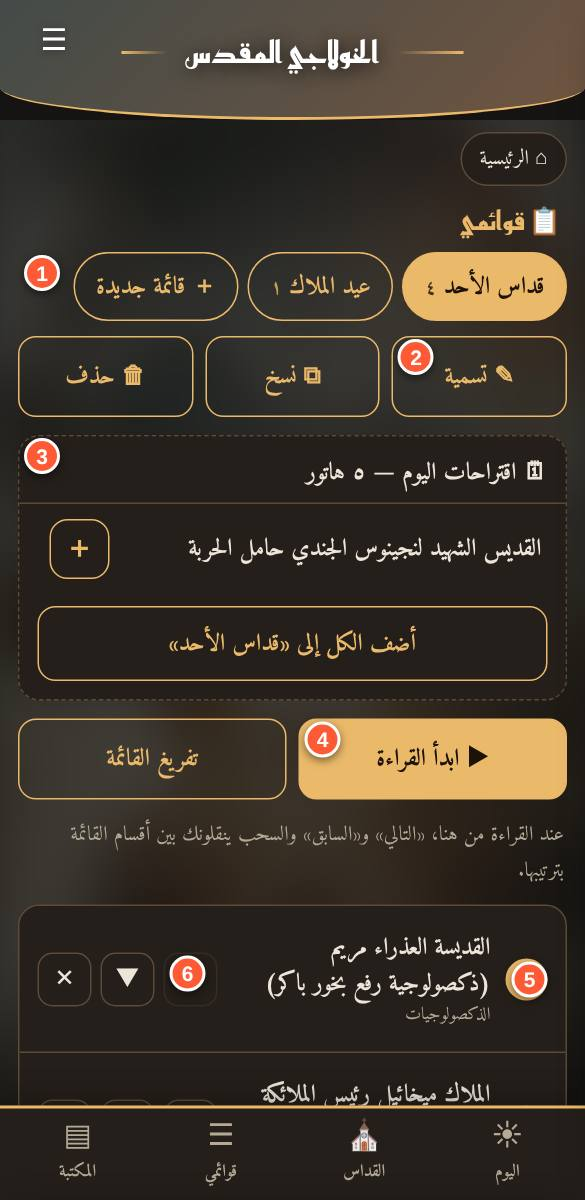
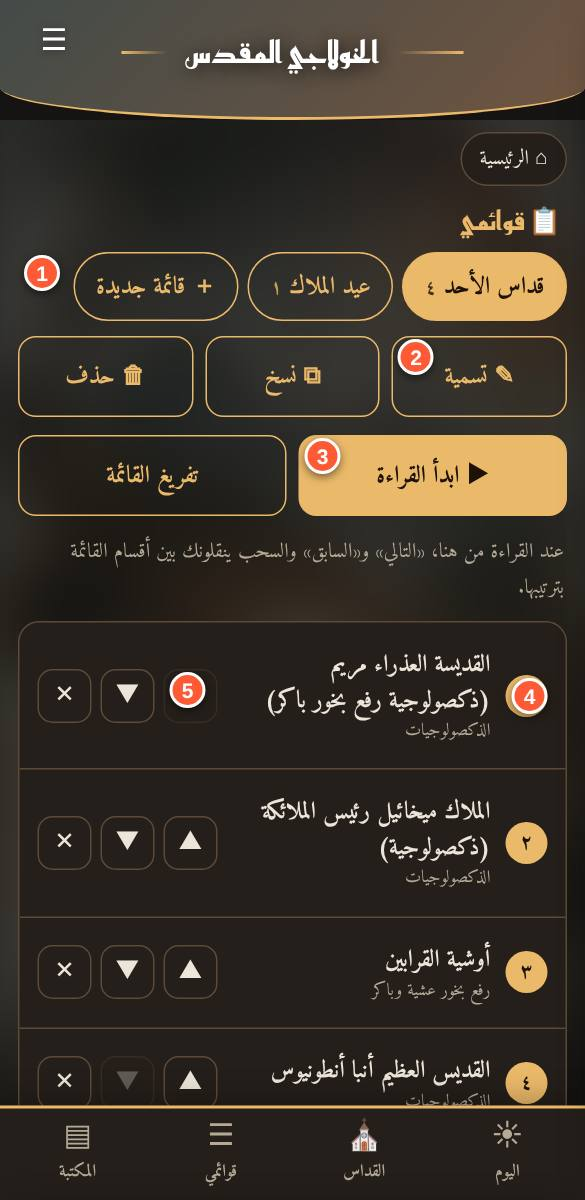
قسم جديد «ألحان التوزيع» (مديح الميلاد) مربوط بالتقويم القبطي + تحديث لقطات الدليل (r153)
Claude-Session: https://claude.ai/code/session_01TxsQH8W41ZBNhnMhe9bVaK

diff --git a/sw.js b/sw.js
@@ -1,5 +1,5 @@
-const CACHE_NAME='khulagi-v1.5-shell-r152';
-const FILES=['./','index.html','icon-192.png','icon-512.png','guide-news.js','calendar.js','guide-pages.js','guide/doxologies.jpg','guide/library.jpg','guide/lists.jpg','guide/lit.jpg','guide/notes.jpg','guide/post.jpg','guide/pre.jpg','guide/reader.jpg','guide/settings.jpg','guide/sidx.jpg','guide/splash.jpg','guide/story.jpg','guide/today.jpg','reemkufi-arabic-700-normal.woff2','dawn.jpg','data.js','study.js','swipe.js','live.js','story.js','study-data.js','data-bible.js','content-raf.txt','content-bas.txt','content-greg.txt','content-cyr.txt','content-qisam.txt','content-misc.txt','content-bless.txt','content-app.txt','content-taqs.txt','content-dox.txt','manifest.webmanifest','amiri-arabic-400-normal.woff2','amiri-arabic-700-normal.woff2','amiri-latin-400-normal.woff2','tajawal-arabic-400.woff2','tajawal-latin-400.woff2','tajawal-arabic-700.woff2','tajawal-latin-700.woff2','cairo-arabic-400-normal.woff2','cairo-arabic-700-normal.woff2','el-messiri-arabic-400-normal.woff2','el-messiri-arabic-700-normal.woff2','lateef-arabic-400-normal.woff2','lateef-arabic-700-normal.woff2','markazi-text-arabic-400-normal.woff2','markazi-text-arabic-700-normal.woff2','noto-naskh-arabic-arabic-400-normal.woff2','noto-naskh-arabic-arabic-700-normal.woff2','reem-kufi-arabic-400-normal.woff2','reem-kufi-arabic-700-normal.woff2','scheherazade-new-arabic-400-normal.woff2','scheherazade-new-arabic-700-normal.woff2','amiri-latin-700-normal.woff2','noto-sans-coptic-coptic-400-normal.woff2','noto-sans-coptic-latin-400-normal.woff2'];
+const CACHE_NAME='khulagi-v1.5-shell-r153';
+const FILES=['./','index.html','icon-192.png','icon-512.png','guide-news.js','calendar.js','content-tawzi.txt','guide-pages.js','guide/doxologies.jpg','guide/library.jpg','guide/lists.jpg','guide/lit.jpg','guide/notes.jpg','guide/post.jpg','guide/pre.jpg','guide/reader.jpg','guide/settings.jpg','guide/sidx.jpg','guide/splash.jpg','guide/story.jpg','guide/today.jpg','reemkufi-arabic-700-normal.woff2','dawn.jpg','data.js','study.js','swipe.js','live.js','story.js','study-data.js','data-bible.js','content-raf.txt','content-bas.txt','content-greg.txt','content-cyr.txt','content-qisam.txt','content-misc.txt','content-bless.txt','content-app.txt','content-taqs.txt','content-dox.txt','manifest.webmanifest','amiri-arabic-400-normal.woff2','amiri-arabic-700-normal.woff2','amiri-latin-400-normal.woff2','tajawal-arabic-400.woff2','tajawal-latin-400.woff2','tajawal-arabic-700.woff2','tajawal-latin-700.woff2','cairo-arabic-400-normal.woff2','cairo-arabic-700-normal.woff2','el-messiri-arabic-400-normal.woff2','el-messiri-arabic-700-normal.woff2','lateef-arabic-400-normal.woff2','lateef-arabic-700-normal.woff2','markazi-text-arabic-400-normal.woff2','markazi-text-arabic-700-normal.woff2','noto-naskh-arabic-arabic-400-normal.woff2','noto-naskh-arabic-arabic-700-normal.woff2','reem-kufi-arabic-400-normal.woff2','reem-kufi-arabic-700-normal.woff2','scheherazade-new-arabic-400-normal.woff2','scheherazade-new-arabic-700-normal.woff2','amiri-latin-700-normal.woff2','noto-sans-coptic-coptic-400-normal.woff2','noto-sans-coptic-latin-400-normal.woff2'];
 self.addEventListener('install',e=>{e.waitUntil(caches.open(CACHE_NAME).then(c=>Promise.all(FILES.map(f=>c.add(new Request(f,{cache:'reload'})).catch(()=>{})))).then(()=>self.skipWaiting()))});
 self.addEventListener('activate',e=>{e.waitUntil(caches.keys().then(k=>Promise.all(k.filter(x=>x!==CACHE_NAME).map(x=>caches.delete(x)))).then(()=>self.clients.claim()))});
 self.addEventListener('fetch',e=>{if(e.request.method!=='GET')return;e.respondWith(fetch(e.request,{cache:'no-cache'}).then(r=>{if(r&&r.ok&&new URL(e.request.url).origin===location.origin){const c=r.clone();caches.open(CACHE_NAME).then(x=>x.put(e.request,c))}return r}).catch(()=>caches.match(e.request,{ignoreSearch:true})))});

diff --git a/index.html b/index.html
@@ -1062,7 +1062,7 @@ function stepPos(dir,unitsOnly){
 function goPos(p){if(!p)return;if(p.id!==CUR.id){location.hash="#/s/"+p.id;usave(p.id,p.u<0?-1:p.u);return}if(!setUnit(p.u))reader(p.id,undefined,p.u)}
 
 /* home & group views */
-var ICONS={intro:"📖",raf:"🕯",bas:"⛪",greg:"⛪",cyr:"⛪",qisam:"✝",misc:"📜",bless:"🙏",app:"📎",taqs:"🕯",dox:"🌟"};
+var ICONS={intro:"📖",raf:"🕯",bas:"⛪",greg:"⛪",cyr:"⛪",qisam:"✝",misc:"📜",bless:"🙏",app:"📎",taqs:"🕯",dox:"🌟",tawzi:"🎶"};
 function ctl(on){$("#opts").style.display=on?"":"none";$("#selw").style.display="none"}
 /* فهرس الكتاب: الفقرات الرئيسية (كما في فهرس الخولاجي ص١٠٣٣) وما تحتها من أجزاء مفصّلة */
 function outline(g){
@@ -1086,7 +1086,7 @@ function stageCards(lit,cls){
   if(l&&BYID[l]&&DT.stageOf){var gm=DT.stageOf[BYID[l].group.id];if(gm&&gm[l]!==undefined)lastSt=gm[l]}
   return stgs.map(function(sg,i){var secs=stageSecs(lit,i),n=secs.length,done=secs.filter(function(x){return seen[x.id]}).length,first=secs.filter(function(x){return !seen[x.id]})[0]||secs[0],st=n&&done===n?'dn':(lastSt===i?'on':'');
     return '<button class="'+cls+' '+st+'" '+(first?'data-nav="#/s/'+first.id+'"':'disabled')+'><b>'+esc(sg[0])+'</b><small>'+(n?ar9(done)+' من '+ar9(n)+(st==='dn'?' ✓':''):'—')+'</small></button>'}).join("")}
-function otherGroups(){var hid=S.hide||[];return ["raf","dox","qisam","bless","misc","taqs","canons","app"].map(function(id){return D.groups.filter(function(x){return x.id===id&&hid.indexOf(id)<0})[0]}).filter(Boolean)}
+function otherGroups(){var hid=S.hide||[];return ["raf","dox","tawzi","qisam","bless","misc","taqs","canons","app"].map(function(id){return D.groups.filter(function(x){return x.id===id&&hid.indexOf(id)<0})[0]}).filter(Boolean)}
 
 /* ===== القصة والهمسات والطبقات ===== */
 function storyIdx(id){var sc=BYID[id];if(!sc||!window.KST)return -1;var g=sc.group.id;if(g!=="bas"&&g!=="greg"&&g!=="cyr")return -1;
@@ -1475,7 +1475,7 @@ function ixGroup(){
   if(h.indexOf("s/")===0){var id=h.slice(2).split("?")[0];return BYID[id]?BYID[id].group:null}
   if(h.indexOf("g/")===0){var gid=h.slice(2);return D.groups.filter(function(x){return x.id===gid})[0]||null}
   return null}
-var IXSN={raf:"البخور",canons:"القوانين",bas:"باسيلي",greg:"غريغوري",cyr:"كيرلسي",qisam:"القسمة",misc:"متنوعة",dox:"ذكصولوجيات",bless:"التبريك",taqs:"الطقس",app:"الملحق"};
+var IXSN={raf:"البخور",canons:"القوانين",bas:"باسيلي",greg:"غريغوري",cyr:"كيرلسي",qisam:"القسمة",misc:"متنوعة",dox:"ذكصولوجيات",tawzi:"التوزيع",bless:"التبريك",taqs:"الطقس",app:"الملحق"};
 function buildIdx(){
   var ix=idxEl(),g=ixGroup();
   var h='<div class="ixh"><b>📑 '+(g?esc(g.title):'الأقسام الرئيسية')+'</b><span><button data-live="1" aria-label="وضع الكنيسة">🕯</button><button data-ixset="1" aria-label="الإعدادات">⚙</button><button data-ixc="1" aria-label="إغلاق">✕</button></span></div>';

diff --git a/guide-news.js b/guide-news.js
@@ -1,6 +1,7 @@
 /* سجل الميزات الجديدة (الأحدث أولا). كل ميزة جديدة تُضاف هنا كمدخل جديد في أعلى القائمة،
    ثم تُحدَّث مواصفة الصفحة المتأثرة في tools/make-guide.js وتُعاد اللقطات (node tools/make-guide.js). */
 window.KG_NEWS=[
+{v:"r153",t:"قسم جديد: ألحان التوزيع",x:"أُضيف قسم «ألحان التوزيع» (من كتاب أسامة لطفي) وفيه الآن مديح توزيع عيد الميلاد (٣١ بيتًا بعلامة مسوّدة)، وهو يُقترح في «اليوم» عند عيد الميلاد تلقائيا من التقويم القبطي. باقي مدائح التوزيع (الغطاس والقيامة والبشارة وأحاد كيهك والخمسين…) تُضاف تباعا."},
 {v:"r152",t:"التقويم القبطي واقتراح الذكصولوجيات بحسب المناسبة",x:"أُضيف التقويم القبطي (منقول من «رفيق روحي»): الأصوام والمواسم والأعياد الثابتة والمتحركة محسوبة لأي سنة. بطاقة «اليوم» في الرئيسية وقوائمي تعرض الآن الموسم الحالي (مثل الصوم الكبير أو شهر كيهك) وتقترح الذكصولوجيات المناسبة له إلى جانب ذكصولوجيات قديس اليوم."},
 {v:"r151",t:"ذكصولوجيات جديدة: نينوى وأحد توما والنسطية وبطرس وبولس",x:"أُضيفت أربع ذكصولوجيات جديدة (صوم نينوى، أحد توما، تي نيستيا الصغيرة، بطرس وبولس) وصُحِّح معرَّب مقاطع مرقس ويوحنا والرسل بنص كتاب أسامة لطفي. كلها بعلامة مسوّدة."},
 {v:"r150",t:"تصحيح معرَّب ذكصولوجيات القديسين",x:"صُحِّح معرَّب نحو ١٠٠ مقطع في ذكصولوجيات ميخائيل والسمائيين ويوحنا المعمدان والآباء الرسل ومرقس واستفانوس ومارجرجس ومرقوريوس ومارمينا وأبانوب ودميانة وشنوده والبطريرك، بنص القبطي المعرَّب من أول كتاب أسامة لطفي."},

diff --git a/data.js b/data.js
@@ -331,6 +331,8 @@ window.KHULAGI = {
       { id: "dox_nisteia", occ: "lent", l: "ت", title: "تي نيستيا الصغيرة (ذكصولوجية)", sub: "تقال في الصوم الكبير — من كتاب ألحان أسامة لطفي" },
       { id: "dox_thomas_sunday", occ: "thomas", l: "ا", title: "أحد توما (ذكصولوجية)", sub: "تقال في أحد توما (الأحد الأول بعد القيامة) — من كتاب ألحان أسامة لطفي" },
       { id: "dox_peter_paul_2", occ: "apostles", l: "ب", title: "القديسان بطرس وبولس الرسولان (ذكصولوجية ثانية)", sub: "تقال في ٥ أبيب (تذكار استشهاد بطرس وبولس) — من كتاب ألحان أسامة لطفي" } ] },
+    { id: "tawzi", title: "ألحان التوزيع", sections: [
+      { id: "tawzi_nativity", occ: "nativity", title: "مديح لتوزيع عيد الميلاد", sub: "يُرتَّل أثناء التوزيع في عيد الميلاد المجيد (٢٩ كيهك)" } ] },
     { id: "bless", title: "صلوات تبريك", sections: [
       { id: "b1", title: "١. صلاة على خبز البركة", page: 917 },
       { id: "b2", title: "٢. صلاة قبل الأكل", page: 919 },

diff --git a/study.js b/study.js
@@ -190,7 +190,7 @@ function nm(t){return String(t).replace(/[ً-ٰٟ]/g,"").replace(/[أإآ]/g,"ا
 function occNow(){try{return window.KCAL?KCAL.occasions(new Date()):null}catch(e){return null}}
 function occDox(o){
   var out=[];if(!o)return out;
-  K.D.groups.forEach(function(g){if(g.id!=="dox")return;g.sections.forEach(function(s){
+  K.D.groups.forEach(function(g){if(g.id!=="dox"&&g.id!=="tawzi")return;g.sections.forEach(function(s){
     if(!s.occ)return;var ks=s.occ.split(" ");
     if(ks.indexOf("always")>=0)return;
     for(var i=0;i<ks.length;i++){if(o.keys.indexOf(ks[i])>=0){out.push(s);break}}})});

diff --git a/guide-pages.js b/guide-pages.js
@@ -261,21 +261,16 @@ window.KG_PAGES=[
    ],
    [
     3,
-    "اقتراحات اليوم",
-    "ذكصولوجيات تناسب اليوم. ＋ لإضافتها، أو «أضف الكل»."
-   ],
-   [
-    4,
     "ابدأ القراءة",
     "يقرأ من أول قسم ويتنقل بترتيب القائمة."
    ],
    [
-    5,
+    4,
     "الترتيب",
     "رقم القسم في القائمة."
    ],
    [
-    6,
+    5,
     "▲ ▼ ✕",
     "تحريك القسم لأعلى أو لأسفل أو حذفه."
    ]
